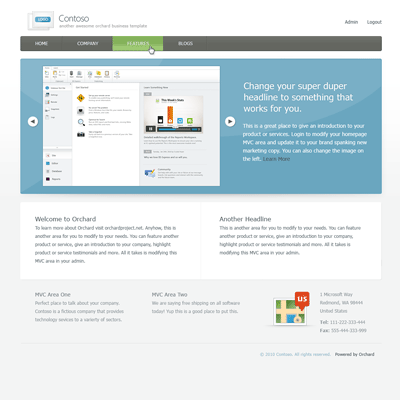
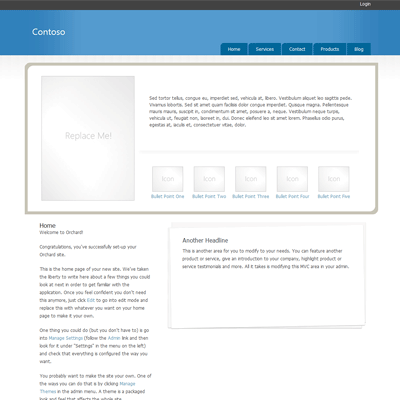
Completion of Corporate Business Theme 1.0
--HG--
branch : dev

diff --git a/src/Orchard.Web/Themes/Corporate/Styles/site.css b/src/Orchard.Web/Themes/Corporate/Styles/site.css
@@ -244,72 +244,91 @@ form.inline p { margin-bottom:0; }
 /*========= GENERAL =========*/
 
 /* html, body {background-color: #434343; } */
-html, body {background-color: #FFFFFF; }
-#shell { /* background-image: url(../Content/Images/bkg.jpg); background-repeat: repeat-x; color: #555549; width: 100%; */}
+html, body {background-color: #FFFFFF; background-image: url(../Content/Images/bkg.jpg); background-repeat: repeat-x; height: 100%; }
+#shell {  color: #4b4b4b; width: 100%; }
 #container { width: 953px; margin: 0px auto 0px auto; }
 
 /*========= HEADER =========*/
-#header {width: 100%; background-color: #434343; height:50px;}
-.header {width: 100%; }
+#header {width: 100%; background-color: #434343; height:20px;}
+.header {width: 953px; margin: 0px auto 0px auto; }
 
-/*- Brand 
-?*
-.brand { width: 962px; }
-.brand .title { padding: 20px 0px 15px 0px; font-size: 1.6em; font-family: Segoe UI, Segoe, Arial, Sans-Serif; color:#4c5c64; float: left;  }-*/
+/*- Brand -*/
+
+.brand { width: 400px; }
+.brand .title { padding: 45px 0px 15px 20px; font-size: 2.0em; font-family: Segoe UI, Segoe, Arial, Sans-Serif; color:#FFFFFF; float: left;  }
 
 /*- Page Navigation -*/
 
-#nav { position: relative; width: 953px; height: 152px; background: url(../Content/Images/menu_bkg.jpg) repeat-x; }
-#nav .menu { position: absolute; bottom: 0px; right: 0px; list-style:none; padding: 0px; margin: 0px; }
-#nav .menu li { float: left; height: 37px; margin: 0px 0px 0px 2px; background: url(../Content/Images/menu-left.png) no-repeat; }
+#nav { position: relative; width: 953px; height: 122px; background: url(../Content/Images/menu_bkg.jpg) repeat-x; }
+#nav .menu { position: absolute; bottom: 0px; right: 20px; list-style:none; padding: 0px; margin: 0px; }
+#nav .menu li { float: left; height: 33px; margin: 0px 0px 0px 2px; background: url(../Content/Images/menu-left.png) no-repeat; }
 #nav .menu li:hover {background: url(../Content/Images/menu-left-over.png) no-repeat;}
-#nav .menu li a {display: block; height: 28px; color: #FFFFFF; background: url(../Content/Images/menu-right.png) no-repeat right top; font-size: 108%; padding: 9px 20px 0px 20px; text-decoration: none; }
+#nav .menu li a {display: block; height: 24px; color: #FFFFFF; background: url(../Content/Images/menu-right.png) no-repeat right top; font-size: 108%; padding: 9px 20px 0px 20px; text-decoration: none; }
 #nav .menu li a:hover {background: url(../Content/Images/menu-right-over.png) no-repeat right top; color: #000000;}
 
 /*- Admin Navigation - */
-.admin-bar { width: 100%; background-color: #434343; height:50px; }
-.admin { float: right; margin: 0px; padding: 25px 0px 0px 0px; }
-.admin li { float:left; list-style: none; padding: 0px 0px 5px 20px; }
-.admin li a {}
+.admin-bar { width: 953px; background-color: #434343; height:30px; margin: 0px auto 0px auto; }
+.admin { float: right; margin: 0px; padding: 7px 20px 0px 0px; }
+.admin li { float:left; list-style: none; padding: 0px 0px 0px 20px; }
+.admin li a { color: #FFFFFF; }
+.admin li a:hover { color: #666666; }
 
 /*========= Footer =========*/
 
-#footer { width: 100%; background-color: #434343; background-image: url(../Content/Images/footer-bkg.jpg); background-repeat: repeat-x; color:#6a6a6a; font-size: 77%; }
+#footer { width: 100%; height: auto; background-color: #434343; background-image: url(../Content/Images/footer-bkg.jpg); background-repeat: repeat-x; color:#6a6a6a; font-size: 95%; padding-top: 10px; line-height: 150%; }
 #footer #footer-content { width: 953px; margin: 0px auto 0px auto; height: 100px;}
-
+#footer #disclaimer { float: right; width: 700px;}
+#footer #footernav { float: left; width: 200px;}
 
 /*========= Home =========*/
 
-#hm-image { float: left; width: 251px; margin: 27px 0px 0px 45px; }
+#hm-image { float: left; width: 251px; margin: 5px 0px 0px 45px; }
 #hm-content {position: relative; float: left; width: 546px; height: 310px; padding: 0px 20px 0px 30px; margin: 40px 0px 0px 10px; background: url(../Content/Images/hm-divider.png) no-repeat -25px 150px; }
 #hm-content #hm-header { }
-#hm-content #hm-message { line-height: 150%; margin: 15px 0px 0px 0px; }
+#hm-content #hm-message { line-height: 150%; margin: 15px 0px 0px 0px; line-height: 150%; }
 #hm-content ul { margin: 50px 0px 0px 0px; position: absolute; bottom: 15px; left: 30px; list-style: none; padding: none; }
-#hm-content ul li { float: left; margin: 0px 28px 0px 0px;}
-#hm-content ul li a { display: block;}
+#hm-content ul li { float: left; margin: 0px 12px 0px 0px; text-align: center; width: 100px;}
+#hm-content ul li a { text-align: center; }
+#hm-content ul li img {clear: both; margin: 0px 0px 5px 0px;}
 
 .main-box { }
 .main-box .top { }
-.main-box .content { background: url(../Content/Images/content-bkg.png) repeat-y; }
+.main-box .content { background: url(../Content/Images/content-bkg.png) repeat-y; margin-top: -1px; }
 .main-box .bottom { }
 
 /*========= Page =========*/
 
-.content-container { background: transparent url('../Content/Images/content-bottom.png') no-repeat left bottom; padding: 0px 0px 0px 0px; }
-.content { position: relative; background: transparent url('../Content/Images/content-top.png') no-repeat left top; padding: 20px 0px 20px 0px; }
-.content-items { width: 882px; padding: 20px 40px 0px 40px; background: transparent url('../Content/Images/content-bkg.png') repeat-y left top; }
-.content-items .item { width: 421px; float: left; }
+#content {margin: 20px 0px 20px 0px;}
+.content-container { padding: 0px 0px 0px 0px; }
+.content { position: relative; padding: 0px 0px 0px 0px; }
+.content-items { width: 882px; padding: 20px 40px 0px 40px; }
+.content-items .item { width: 305px; float: left; }
+.content-items .note { width: 455px; min-height:289px; padding: 40px; float: left; background: transparent url('../Content/Images/notepad.png') no-repeat left top; }
 .content-items .item:first-child {margin: 0px 40px 0px 0px; }
 .content-items h1 { font-size: 1.3em; margin-bottom: 0.75em; color: #444d51; }
 
 /*- Content Pages -*/
-.content .page-title { display: none; }
+.page-title {font-size: 1.4em; color: #333333;}
 .sub .page-title { display: block; background: transparent url('../Content/Images/sub-header.png') no-repeat left top; width: 962px; height: 48px; position: absolute; top: 1px; left: 1px; color: #ffffff; font-size: 2em; text-shadow: 0px -1px 0px #5f8b9e; padding: 15px 0px 15px 40px; }
-.content-items .main { float: left; width: 574px; margin: 0px 60px 20px 0px; padding: 50px 0px 0px 0px; }
-.content-items .sidebar { float: left; width: 232px; padding: 45px 0px 0px 0px; }
-.content-items .side-block { float: left; width: 232px; border-bottom: solid 1px #e2e2e2; padding: 20px 0px 0px 0px; }
-.content-items .archives { float: left; width: 232px; border-bottom: solid 1px #e2e2e2; padding: 20px 0px 0px 0px; }
-.content-items .archives .archiveMonthList { padding: 20px 0px 20px 0px; list-style: none; }
+.main { float: left; width: 574px; margin: 0px 60px 20px 0px; padding: 50px 0px 0px 0px; }
+.sidebar { float: left; width: 162px; padding: 0px 0px 0px 40px; }
+.side-block { float: left; width: 162px; border-bottom: solid 1px #e2e2e2; padding: 20px 0px 0px 0px; }
+.side-block:first-child { float: left; width: 162px; border-bottom: solid 1px #e2e2e2; padding: 0px 0px 0px 0px; }
+.archives { float: left; width: 162px; border-bottom: solid 1px #e2e2e2; padding: 0px 0px 0px 0px; }
+.archives .archiveMonthList { padding: 20px 0px 20px 0px; list-style: none; }
+
+.subpage 
+{
+    width: 953px;
+    font-size: normal;
+}
+
+.sub-content 
+{
+    float: right;
+    width: 674px;
+    padding: 0px 40px 0px 0px;
+}
 
 
 /*- Highlight Area -*/
@@ -325,14 +344,16 @@ html, body {background-color: #FFFFFF; }
 
 .blogPosts, .taggedPosts { margin: 0px; padding: 0px; }
 .blogPosts li, .taggedPosts li { padding: 30px 0px 0px 0px; list-style: none; border-top: solid 1px #e2e2e2; } 
-.blogdescription { font-size: 1.3em; line-height: 150%; color: #6da8c0; }
+.blogdescription { font-size: 1.3em; line-height: 150%; color: #666666; }
+.blogPosts .content { background: none; }
+.taggedPosts .content { background: none; }
 
 #comments { padding-top: 20px; border-top: dashed 1px #d8d8d8; padding-bottom: 10px; margin-top: 30px; }
 .comments { position: relative;  padding: 0px 0px 20px 0px; margin: 0px; clear: both; }
-.comments li { display: block; position: relative; list-style: none; background-color: #fbfff7; border: solid 1px #ebf4e3; border-bottom-color: #d5ebbd; border-right-color: #d5ebbd; padding: 20px 20px 0px 20px; margin: 0px 0px 50px 0px; }
-.comments .commentauthor {position: absolute; bottom: -27px; left: 20px; color: #a5cc7a; background: transparent url('../Content/Images/comment-arrow.png') no-repeat 20px 0px; padding: 15px 0px 0px 0px; }
+.comments li { display: block; position: relative; list-style: none; border: solid 1px #e3e9ef; padding: 20px 20px 0px 20px; margin: 0px 0px 50px 0px; }
+.comments .commentauthor {position: absolute; bottom: -27px; left: 20px; color: #999999; background: transparent url('../Content/Images/comment-arrow.png') no-repeat 20px 0px; padding: 15px 0px 0px 0px; }
 
-.comment-form { border: solid 1px #d8d8d8; padding: 20px; }
+.comment-form { }
 .comment-form h2 { border-bottom: dashed 1px #d8d8d8; padding-bottom: 10px; }
 .comment-form .who {}
 .comment-form .who label { float: left; text-align: right; width: 50px; padding: 12px 10px 0px 0px; }
@@ -356,9 +377,9 @@ html, body {background-color: #FFFFFF; }
 
 .tagCloud { list-style: none; margin: 20px 0px 0px 0px; }
 .tagCloud li { display: block; float: left; padding: 3px 10px 5px 0px; }
-.tagCloud a { display: block; float: left; padding: 3px 5px 5px 5px; background-color: #d7e6ed; color: #95a5ac; text-shadow: 1px 1px 0px #FFF; -moz-border-radius: 5px;
+.tagCloud a { display: block; float: left; padding: 3px 5px 5px 5px; background-color: #ebebeb; color: #95a5ac; text-shadow: 1px 1px 0px #FFF; -moz-border-radius: 5px;
 -webkit-border-radius: 5px; margin: 0px 10px 0px 0px; }
-.tagCloud a:hover { display: block; float: left; padding: 3px 5px 5px 5px; background-color: #a5cc7a; color: #668b3e; text-shadow: 1px 1px 0px #c8e6a6; -moz-border-radius: 5px;
+.tagCloud a:hover { display: block; float: left; padding: 3px 5px 5px 5px; background-color: #b7b7b7; color: #668b3e; text-shadow: 1px 1px 0px #c8e6a6; -moz-border-radius: 5px;
 -webkit-border-radius: 5px; margin: 0px 10px 0px 0px; }
 
 /*========= PLUGINS =========*/

diff --git a/src/Orchard.Web/Themes/Corporate/Zones/Home-Hero.html b/src/Orchard.Web/Themes/Corporate/Zones/Home-Hero.html
@@ -8,15 +8,17 @@
         vitae, dolor.
     </div>
     <ul id="hm-icons">
-        <li><a href="#" id="calendar" title="12 to 36 Month Program">
-            <img src="/Themes/Corporate/Content/Images/icons/calendar.png" /></a></li>
-        <li><a href="#" id="chart" title="Lower Debt as low as 50%;">
-            <img src="/Themes/Corporate/Content/Images/icons/chart.png" /></a></li>
-        <li><a href="#" id="seal" title="Money Back Guarantee">
-            <img src="/Themes/Corporate/Content/Images/icons/seal.png" /></a></li>
-        <li><a href="#" id="lightbulb" title="The Smart Alternative">
-            <img src="/Themes/Corporate/Content/Images/icons/lightbulb.png" /></a></li>
-        <li><a href="#" id="envelope" title="One Simple Monthly Payment">
-            <img src="/Themes/Corporate/Content/Images/icons/envelope.png" /></a></li>
+        <li>
+        <img src="/Themes/Corporate/Content/Images/icons/icon-1.png" />
+        <a href="#" title="Bullet Point One">
+            Bullet Point One</a></li>
+        <li><img src="/Themes/Corporate/Content/Images/icons/icon-2.png" /><a href="#" title="Bullet Point One">
+            Bullet Point Two</a></li>
+        <li><img src="/Themes/Corporate/Content/Images/icons/icon-3.png" /><a href="#" title="Bullet Point One">
+            Bullet Point Three</a></li>
+        <li><img src="/Themes/Corporate/Content/Images/icons/icon-4.png" /><a href="#" title="Bullet Point One">
+            Bullet Point Four</a></li>
+        <li><img src="/Themes/Corporate/Content/Images/icons/icon-5.png" /><a href="#" title="Bullet Point One">
+            Bullet Point Five</a></li>
     </ul>
 </div>
